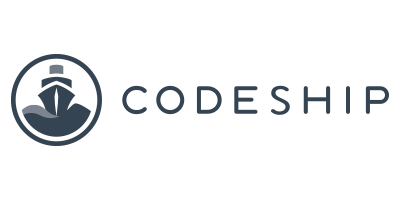
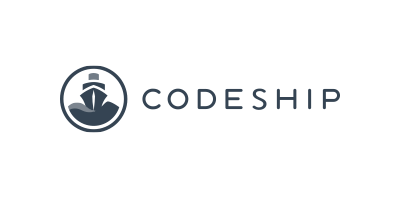
Content updates to Community
- New copy
- Updated logos
- Updated images

Changed region(s): [[0.03, 0.27, 0.99, 0.75]]

diff --git a/web/static/app/layout/_community.scss b/web/static/app/layout/_community.scss
@@ -25,7 +25,7 @@
 
     &-header {
       margin: 0 auto;
-      max-width: 1080px;
+      max-width: 880px;
       padding: $padding-large;
       text-align: center;
 
@@ -69,7 +69,11 @@
       .btn {
         font-size: 1.25em;
         color: $black !important;
-        padding: 0.6em 1.5em 0.5em;
+        padding: 0.9em 2.4em 0.7em;
+
+        @media (min-width: $tablet) {
+          margin-top: $padding-medium;
+        }
 
         &:hover {
           background: darken($green, 5%);
@@ -93,7 +97,7 @@
         padding: 0.5rem;
 
         @media (min-width: $tablet) {
-          flex: 0 0 25%;
+          flex: 0 0 20%;
         }
       }
 
@@ -138,7 +142,8 @@
 
         img {
           border: 1px solid $light-grey;
-          box-shadow: 0 30px 40px 20px rgba($black, 0.2);
+          // box-shadow: 0 30px 40px 20px rgba($black, 0.2);
+          box-shadow: -20px 20px 50px 0 rgba($black, 0.2), -60px 60px 30px 0 rgba($black, 0.03);
           width: 100%;
 
           @media (min-width: $breakpoint) {
@@ -198,6 +203,11 @@
 
       img {
         width: 100%;
+        filter: grayscale(100%);
+
+        &:hover {
+          filter: grayscale(0%);
+        }
       }
     }
   }
@@ -216,7 +226,7 @@
       color: $half-black;
       content: '“';
       display: block;
-      font-size: 2.5em;
+      font-size: 4em;
       height: 20px;
       margin-bottom: $padding-large;
       text-align: center;
@@ -228,18 +238,33 @@
       text-align: center;
 
       img {
-        box-shadow: 0 20px 30px 10px rgba($black, 0.2);
+        border: 1px solid $light-grey;
+        box-shadow: -5px 5px 40px 5px rgba($black, 0.2);
+        border-radius: 2px;
+        // box-shadow: 0 0 40px 0 rgba($black, 0.2);
         display: block;
         margin: 0 auto 1em;
       }
 
-      a {
-        color: $half-black;
-        display: block;
+      strong {
+        display: inline-block;
+        padding-bottom: 2px;
+      }
 
-        &:hover {
-          color: $black;
+      span {
+        clear: left;
+        font-style: italic;
+
+        &:before {
+          content: "\A";
+          white-space: pre;
         }
+
+      }
+
+      a {
+        color: black;
+        display: block;
       }
     }
   }
@@ -249,13 +274,14 @@
     display: block;
     height: auto;
     margin: 0 auto;
-    max-width: 1080px;
+    max-width: 1200px;
     overflow: hidden;
     width: 100%;
 
     img {
-      margin-left: -10%;
-      width: 120%;
+      display: block;
+      margin: 0 auto;
+      width: 97%;
     }
 
     @media (min-width: $tablet) {
